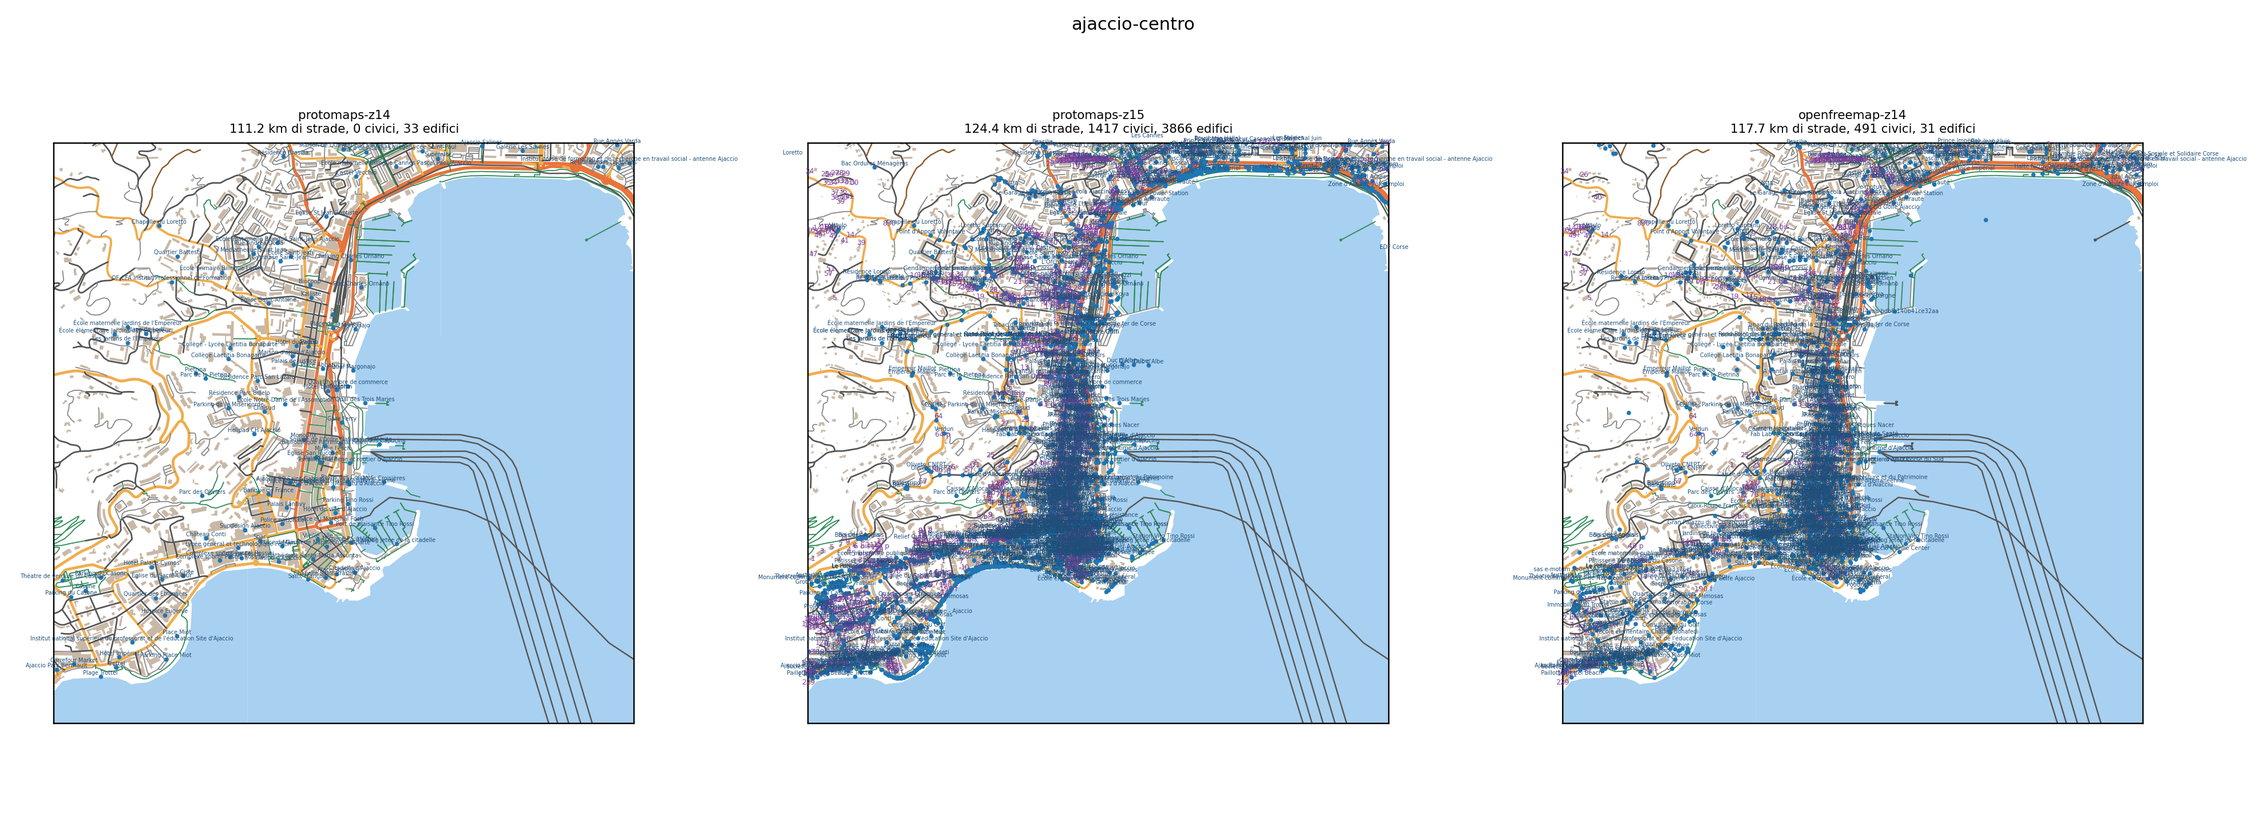
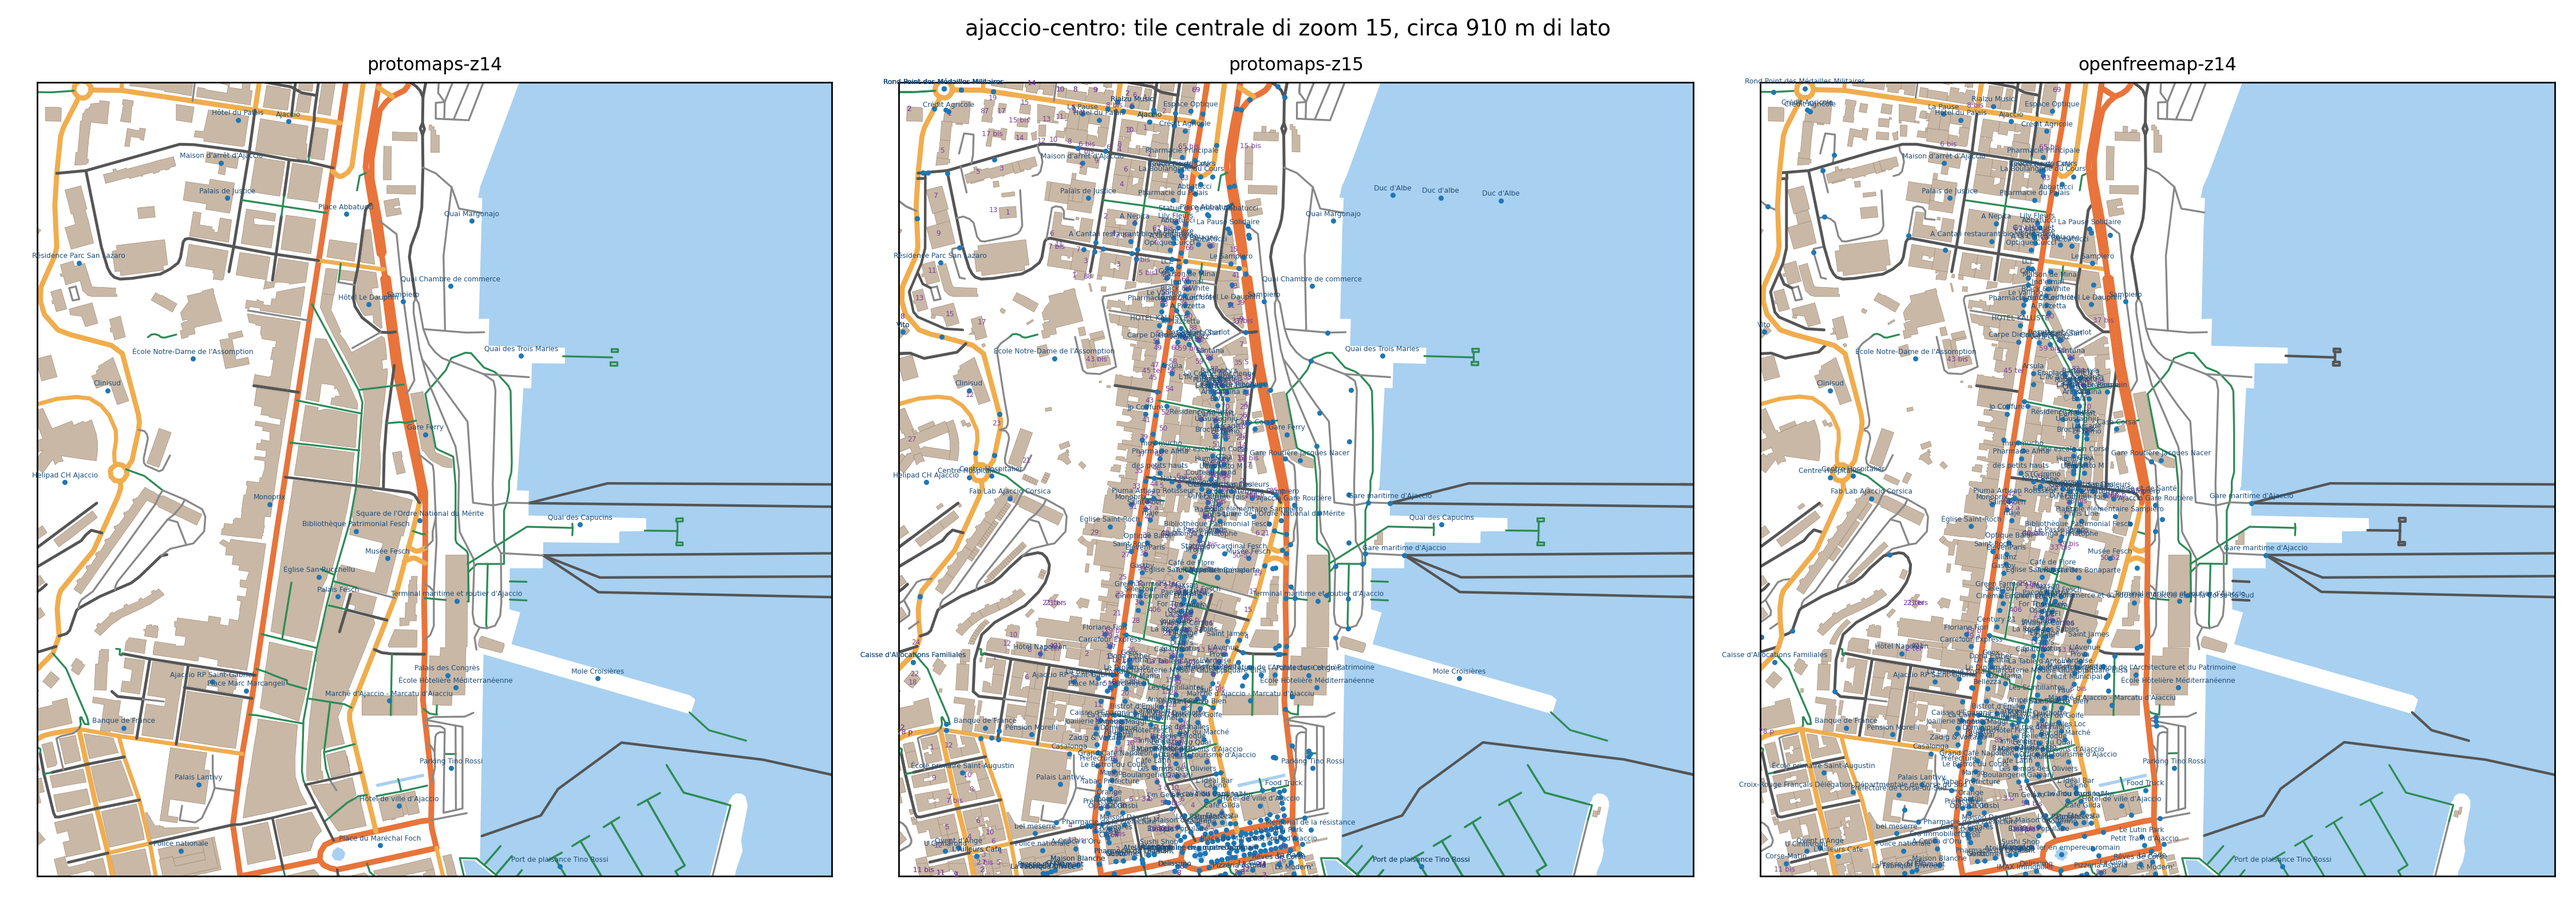
Trial previews of the maps for corsica

diff --git a/prova-mappa/anteprime/corsica/conteggi.md b/prova-mappa/anteprime/corsica/conteggi.md
@@ -5,10 +5,11 @@
 |---|---|---|---|
 | strade: km | 111.2 | 124.4 | 117.7 |
 | POI | 109 | 2268 | 960 |
-| civici | 0 | 1417 | 491 |
-| edifici | 33 | 3866 | 31 |
+| civici | 0 | 1417 | 288 |
+| edifici: ettari | 32.3 | 67.7 | 4.5 |
+| edifici: poligoni | 480 | 3874 | 74 |
 | luoghi e POI con nome | 111 | 663 | 626 |
-| strade con nome | 267 | 281 | 0 |
+| strade con nome | 267 | 281 | 273 |
 | strade: corridor km | 0.0 | 0.0 | 0 |
 | strade: crossing km | 0.0 | 0.0 | 0 |
 | strade: cycleway km | 2.1 | 2.2 | 0 |
@@ -42,9 +43,10 @@
 | strade: km | 34.7 | 37.5 | 35.3 |
 | POI | 7 | 65 | 62 |
 | civici | 0 | 1 | 1 |
-| edifici | 6 | 334 | 13 |
+| edifici: ettari | 1.5 | 3.1 | 2.9 |
+| edifici: poligoni | 59 | 334 | 283 |
 | luoghi e POI con nome | 16 | 42 | 37 |
-| strade con nome | 6 | 6 | 0 |
+| strade con nome | 6 | 6 | 6 |
 | strade: footway km | 0.1 | 0.1 | 0 |
 | strade: minor km | 0 | 0 | 1.8 |
 | strade: path km | 6.4 | 6.9 | 6.9 |
